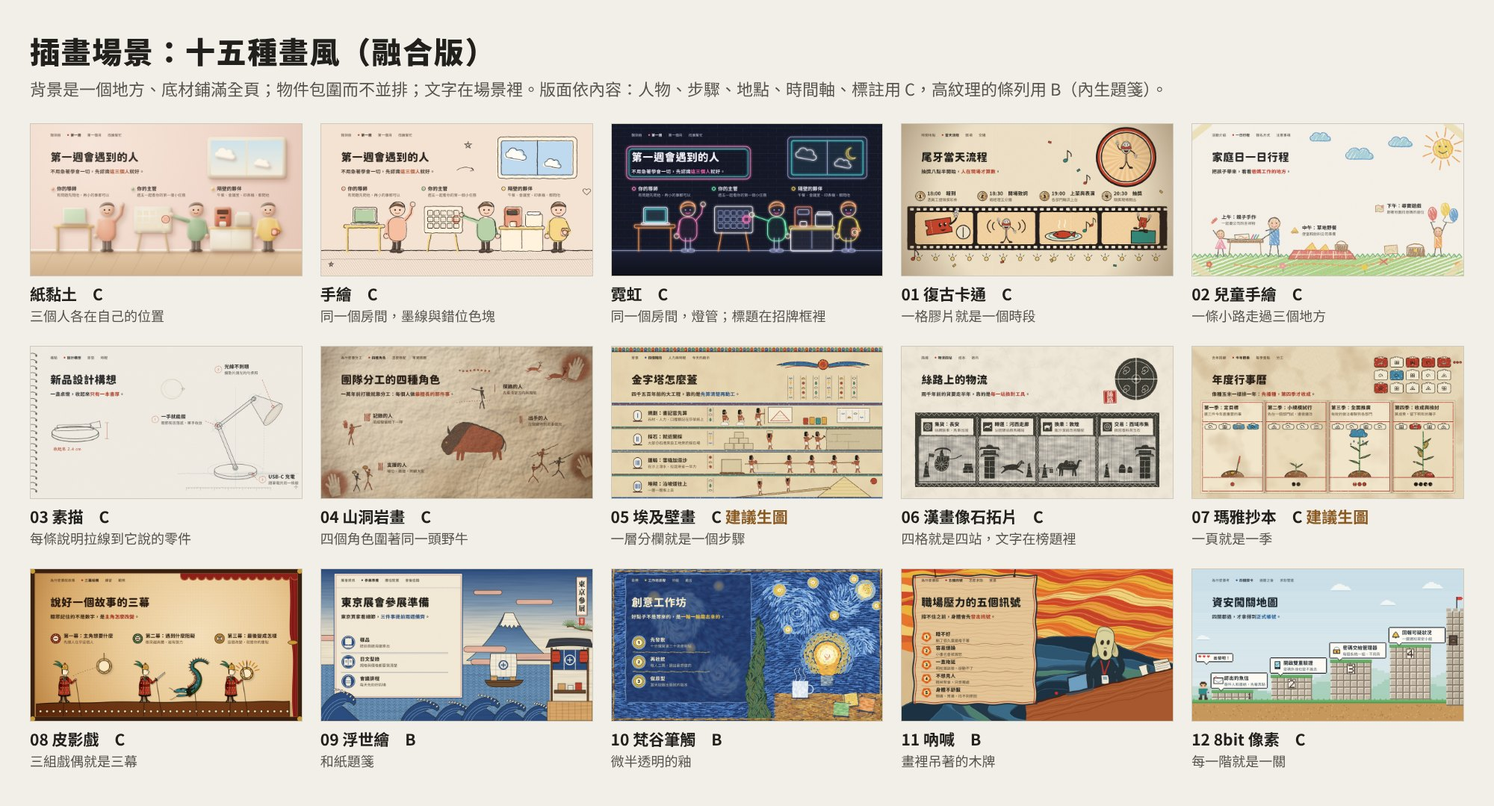
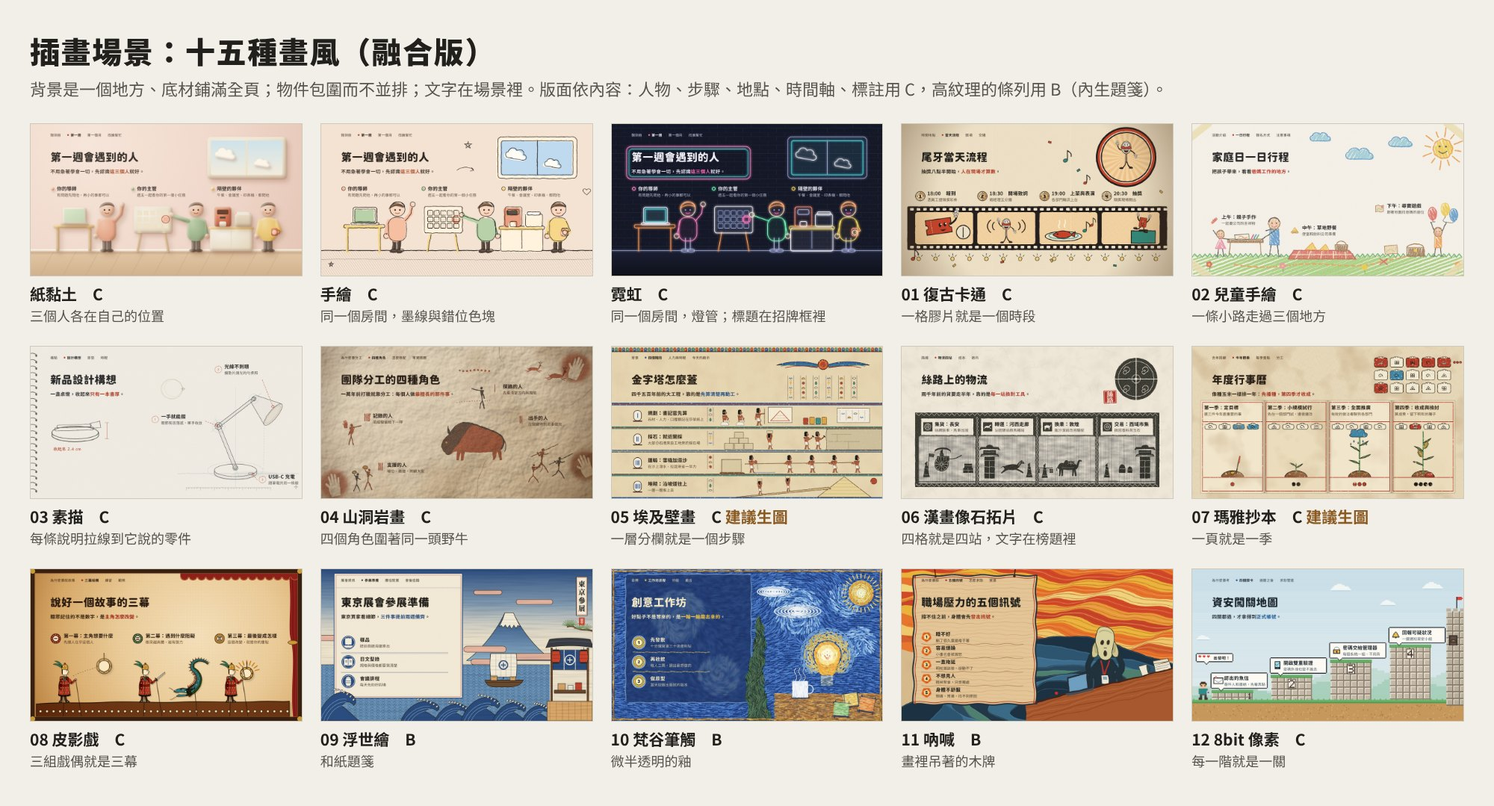
插畫場景十五種畫風的淺、深兩種底補齊：總覽 sheet5、規格範圍、同步紀錄
- sheet5.html／jpg：十五種畫風，每格上淺下深
- illustration.md「明暗」：十五種的實測用色，以及歸納出的深色、淺色範圍
- color-system.md：插畫場景改成已補齊
- sheet2、sheet3 跟著更新（收錄重畫的梵谷與拿掉月亮的霓虹）
- integration README、STATUS、ROADMAP、LOG 同步；首批三款的 2b 完成，下一步 2c

Claude-Session: https://claude.ai/code/session_01Cd6Gfpjt229CKA35KBVkkD

Changed region(s): [[0.465, 0.7034, 0.589, 0.9175]]

diff --git a/projects/presentation-skill/outputs/illustration-integration/sheet5.html b/projects/presentation-skill/outputs/illustration-integration/sheet5.html
@@ -1,0 +1,86 @@
+<!doctype html>
+<html lang="zh-Hant">
+<head>
+<meta charset="utf-8">
+<title>插畫場景：十五種畫風的淺、深兩種底</title>
+<link rel="stylesheet" href="https://fonts.googleapis.com/css2?family=Noto+Sans+TC:wght@400;700;900&display=block">
+<style>
+  *{box-sizing:border-box;margin:0;padding:0}
+  body{width:2000px;background:#F2EFE8;color:#22201C;font-family:"Noto Sans TC",sans-serif;padding:44px 40px 48px}
+  h1{font:900 40px/1.2 "Noto Sans TC";letter-spacing:.04em}
+  p.sub{margin-top:10px;font:400 22px/1.5 "Noto Sans TC";color:#57534D}
+  .grid{margin-top:30px;display:grid;grid-template-columns:repeat(5,1fr);gap:34px 24px}
+  figure h3{font:700 23px/1.3 "Noto Sans TC";margin-bottom:8px}
+  figure img{display:block;width:100%;aspect-ratio:16/9;border:1px solid #CFC9BC}
+  p.tag{margin:4px 0 8px;font:700 17px/1.2 "Noto Sans TC";color:#57534D}
+  p.tag i{font-style:normal;color:#8A5A22}
+  figcaption{font:400 18px/1.4 "Noto Sans TC";color:#57534D}
+</style>
+</head>
+<body>
+  <h1>插畫場景：十五種畫風的淺、深兩種底</h1>
+  <p class="sub">版面不動，只換明暗。變暗不等於夜晚：只換光線，或用材質本身的深色款；月亮星星跟著內容走。B 版面寫字的載體跟著變深。每格上淺下深。</p>
+  <div class="grid">
+    <figure><h3>紙黏土</h3>
+      <img src="img/C-scene.jpg" alt=""><p class="tag">淺</p>
+      <img src="img/C-scene-dark.jpg" alt=""><p class="tag">深　<i>新補</i></p>
+      <figcaption>深：拉上百葉窗、關掉大燈，只留檯燈與螢幕</figcaption></figure>
+    <figure><h3>手繪</h3>
+      <img src="img/hand-C.jpg" alt=""><p class="tag">淺</p>
+      <img src="img/hand-C-dark.jpg" alt=""><p class="tag">深　<i>新補</i></p>
+      <figcaption>深：深色紙上的白色墨線</figcaption></figure>
+    <figure><h3>霓虹</h3>
+      <img src="img/neon-C-light.jpg" alt=""><p class="tag">淺　<i>新補</i></p>
+      <img src="img/neon-C.jpg" alt=""><p class="tag">深</p>
+      <figcaption>淺：店裡燈全開的白漆磚牆，燈管照樣亮</figcaption></figure>
+    <figure><h3>01 復古卡通</h3>
+      <img src="img/retro-C.jpg" alt=""><p class="tag">淺</p>
+      <img src="img/retro-C-dark.jpg" alt=""><p class="tag">深　<i>新補</i></p>
+      <figcaption>深：放映廳暗下來；尾牙在晚上，畫了彎月</figcaption></figure>
+    <figure><h3>02 兒童手繪</h3>
+      <img src="img/crayon-C.jpg" alt=""><p class="tag">淺</p>
+      <img src="img/crayon-C-dark.jpg" alt=""><p class="tag">深　<i>新補</i></p>
+      <figcaption>深：蠟筆畫在黑色圖畫紙上</figcaption></figure>
+    <figure><h3>03 素描</h3>
+      <img src="img/sketch-C.jpg" alt=""><p class="tag">淺</p>
+      <img src="img/sketch-C-dark.jpg" alt=""><p class="tag">深　<i>新補</i></p>
+      <figcaption>深：深灰色紙，白鉛筆描線、炭筆排影</figcaption></figure>
+    <figure><h3>04 山洞岩畫</h3>
+      <img src="img/cave-C.jpg" alt=""><p class="tag">淺</p>
+      <img src="img/cave-C-dark.jpg" alt=""><p class="tag">深　<i>新補</i></p>
+      <figcaption>深：火把照亮的洞穴，白黏土取代炭黑</figcaption></figure>
+    <figure><h3>05 埃及壁畫</h3>
+      <img src="img/egypt-C.jpg" alt=""><p class="tag">淺</p>
+      <img src="img/egypt-C-dark.jpg" alt=""><p class="tag">深　<i>新補</i></p>
+      <figcaption>深：墓室天頂的深藍，不畫星紋</figcaption></figure>
+    <figure><h3>06 漢畫像石拓片</h3>
+      <img src="img/han-C.jpg" alt=""><p class="tag">淺</p>
+      <img src="img/han-C-dark.jpg" alt=""><p class="tag">深　<i>新補</i></p>
+      <figcaption>深：烏金拓，人物凹刻成灰白剪影</figcaption></figure>
+    <figure><h3>07 瑪雅抄本</h3>
+      <img src="img/maya-C.jpg" alt=""><p class="tag">淺</p>
+      <img src="img/maya-C-dark.jpg" alt=""><p class="tag">深　<i>新補</i></p>
+      <figcaption>深：沒上石灰的深色樹皮紙，石灰白勾線</figcaption></figure>
+    <figure><h3>08 皮影戲</h3>
+      <img src="img/shadow-C.jpg" alt=""><p class="tag">淺</p>
+      <img src="img/shadow-C-dark.jpg" alt=""><p class="tag">深　<i>新補</i></p>
+      <figcaption>深：一盞油燈，只照亮戲偶那一帶</figcaption></figure>
+    <figure><h3>09 浮世繪</h3>
+      <img src="img/ukiyoe-B.jpg" alt=""><p class="tag">淺</p>
+      <img src="img/ukiyoe-B-dark.jpg" alt=""><p class="tag">深　<i>新補</i></p>
+      <figcaption>深：藍摺絵，題箋墨地、字白抜き</figcaption></figure>
+    <figure><h3>10 梵谷筆觸</h3>
+      <img src="img/vangogh-B-light.jpg" alt=""><p class="tag">淺　<i>新補</i></p>
+      <img src="img/vangogh-B.jpg" alt=""><p class="tag">深　<i>重畫</i></p>
+      <figcaption>兩種都是白天：晴天麥田；深鈷藍天空（重畫）</figcaption></figure>
+    <figure><h3>11 吶喊</h3>
+      <img src="img/scream-B.jpg" alt=""><p class="tag">淺</p>
+      <img src="img/scream-B-dark.jpg" alt=""><p class="tag">深　<i>新補</i></p>
+      <figcaption>深：光線沉下去的峽灣，深色木牌</figcaption></figure>
+    <figure><h3>12 8bit 像素</h3>
+      <img src="img/pixel-C.jpg" alt=""><p class="tag">淺</p>
+      <img src="img/pixel-C-dark.jpg" alt=""><p class="tag">深　<i>新補</i></p>
+      <figcaption>深：地下關卡，老 RPG 的深藍視窗</figcaption></figure>
+  </div>
+</body>
+</html>

diff --git a/projects/presentation-skill/outputs/style-specs/illustration.md b/projects/presentation-skill/outputs/style-specs/illustration.md
@@ -60,7 +60,7 @@ _2026-11-19，首批三款之一。意象圖：`outputs/style-moodboard-v5/img/0
 
 ## 明暗（2026-11-19 使用者決定）
 
-每種畫風都要有淺、深兩種底。目前多數畫風只有淺底，霓虹與梵谷筆觸只有深底，要補上另一種。
+每種畫風都要有淺、深兩種底。**十五種都已補齊**（2026-11-19，總覽 `outputs/illustration-integration/sheet5.jpg`）：十三種補了深色，霓虹與梵谷補了淺色，梵谷的深色版依使用者建議重畫成白天。
 
 **怎麼變暗**（2026-11-19 使用者決定，原則第 22 條）：
 
@@ -80,9 +80,9 @@ _2026-11-19，首批三款之一。意象圖：`outputs/style-moodboard-v5/img/0
 | 霓虹 | 淺 | 換光線：店裡燈全開、白漆磚牆；燈管照樣亮著，亮處才看得到的支架與電極一起畫出來 |
 | 復古卡通 | 深 | 換光線：放映廳暗下來，深褐底加網點；樣張的尾牙本來就在晚上，可以畫月亮 |
 | 兒童手繪 | 深 | 材質深色款：蠟筆畫在黑色圖畫紙上 |
-| 素描 | 深 | 材質深色款：深灰色紙上的白鉛筆，標註改用珊瑚色鉛筆 |
-| 山洞岩畫 | 深 | 換光線：火把照亮的洞穴深處；炭黑在暗岩上看不見，改用石灰白 |
-| 埃及壁畫 | 深 | 材質深色款：墓室天頂的深藍底；天頂的五角星紋是裝飾紋樣，不是夜空 |
+| 素描 | 深 | 材質深色款：深灰色紙；色紙素描的畫法，白鉛筆描輪廓、炭筆排陰影，標註改用珊瑚色鉛筆 |
+| 山洞岩畫 | 深 | 換光線：火把照亮的洞穴深處；炭黑在暗岩上看不見，改用白色黏土（澳洲、非洲岩畫常見） |
+| 埃及壁畫 | 深 | 材質深色款：墓室天頂的深藍底；不畫五角星紋，免得讀成夜空 |
 | 漢畫像石拓片 | 深 | 材質深色款：烏金拓（墨最重、黑亮的拓法）；人物改凹刻，拓出來是灰白剪影 |
 | 瑪雅抄本 | 深 | 材質深色款：沒上石灰的深色樹皮紙，改用石灰白勾線 |
 | 皮影戲 | 深 | 換光線：只點一盞油燈的戲台，布幕只有戲偶那一帶亮，往上暗成深褐，字寫在暗處 |
@@ -91,20 +91,38 @@ _2026-11-19，首批三款之一。意象圖：`outputs/style-moodboard-v5/img/0
 | 吶喊 | 深 | 換光線：同一片峽灣，光線沉下去，色帶轉成深藍與暗紅；木牌改深色木板 |
 | 8bit 像素 | 深 | 換光線：地下關卡（老遊戲的暗色關卡），說明框改成老 RPG 的深藍底白字視窗 |
 
-補完後，把各畫風另一種明暗的用色範圍寫進下面的「用色規則」。
+**實測用色**（2026-11-19，OKLCH；四張示範的前後對照在 `sheet4.jpg`）。強調色只給 24 px 以上的關鍵字：
 
-**四張示範已完成**（2026-11-19，`outputs/illustration-integration/sheet4.jpg`），使用者確認方向。實測用色（OKLCH）：
+| 畫風 | 補 | 底色 | 文字 | 次要文字 | 強調色 | 強調色對底色 |
+|---|---|---|---|---|---|---|
+| 紙黏土 | 深 | 深可可牆 L 0.24–0.34，C 0.03，H 36–39；亮處在左上的檯燈旁 | L 0.95 | L 0.80 | 杏橘 L 0.78，C 0.11 | 6.9:1 |
+| 手繪 | 深 | 暖深色紙 L 0.26，C ≤ 0.01 | L 0.95 | L 0.79 | 杏橘 L 0.78，C 0.11 | 7.5:1 |
+| 霓虹 | 淺 | 白漆磚 L 0.95，磚縫 L 0.87，C ≤ 0.015 | 深藍墨 L 0.28 | L 0.46 | 深桃 L 0.50，C 0.19 | 5.5:1 |
+| 復古卡通 | 深 | 暗下來的放映廳 L 0.24，C 0.02；膠片畫格被照亮 | L 0.94 | L 0.80 | 朱橘 L 0.72，C 0.15 | 6.5:1 |
+| 兒童手繪 | 深 | 黑色圖畫紙 L 0.26 | L 0.96 | L 0.80 | 蠟筆紅 L 0.73，C 0.15 | 6.1:1 |
+| 素描 | 深 | 深灰色紙 L 0.31，C ≤ 0.01 | L 0.95 | L 0.80 | 珊瑚 L 0.74，C 0.13 | 5.5:1 |
+| 山洞岩畫 | 深 | 暗岩 L 0.29，C 0.02；火把光在中央 | L 0.94 | L 0.80 | 赭橘 L 0.74，C 0.13 | 5.9:1 |
+| 埃及壁畫 | 深 | 墓室深藍 L 0.29，C 0.06，H 265 | L 0.94 | L 0.82 | 金 L 0.82，C 0.13 | 8.1:1 |
+| 漢畫像石拓片 | 深 | 烏金墨 L 0.21，C ≤ 0.01 | 刻字白 L 0.94 | L 0.77 | 朱 L 0.66，C 0.16 | 5.3:1 |
+| 瑪雅抄本 | 深 | 深色樹皮紙 L 0.30，C 0.03 | L 0.94 | L 0.80 | 淡紅 L 0.73，C 0.14 | 5.4:1 |
+| 皮影戲 | 深 | 暗布幕 L 0.23；只有戲偶那一帶亮到 L 0.85 | L 0.94 | L 0.81 | 琥珀橘 L 0.77，C 0.13 | 7.8:1 |
+| 浮世繪 | 深 | 藍摺天空 L 0.21–0.40，H 262–266；墨地題箋 L 0.22 | 白抜き L 0.94 | 淡藍灰 L 0.78 | 淡朱 L 0.74，C 0.13 | 6.9:1 |
+| 梵谷筆觸 | 淺 | 淺色釉 L ≈ 0.92，底下是淺藍天空與麥田 | L 0.27 | L 0.44 | 朱橘 L 0.50，C 0.15 | 5.0:1 |
+| 梵谷筆觸 | 深（重畫） | 白天的深鈷藍天空 L ≈ 0.40，C 0.12；字寫在加深的釉上 | L 0.94 | L 0.83 | 鉻黃 L 0.84，C 0.15 | 5.9:1 |
+| 吶喊 | 深 | 暗紅與深藍色帶；深色木牌 L 0.27 | L 0.93 | L 0.80 | 淡朱 L 0.74，C 0.14 | 6.2:1 |
+| 8bit 像素 | 深 | 地下關卡的深藏青 L 0.21；說明框是深藍視窗 | L 0.97 | L 0.84 | 金 L 0.83，C 0.14 | 10.5:1 |
 
-| 畫風 | 底色 | 文字 | 次要文字 | 強調色 | 強調色對底色 |
-|---|---|---|---|---|---|
-| 紙黏土深色 | 深可可牆 L 0.24–0.34，C 0.03–0.04，H 36–39（亮處在左上的檯燈旁） | L 0.95 | L 0.80 | 杏橘 L 0.78，C 0.11 | 6.9:1 |
-| 霓虹淺色 | 白漆磚 L 0.95，磚縫 L 0.87，C ≤ 0.015 | 深藍墨 L 0.28 | L 0.46 | 深桃 L 0.50，C 0.19 | 5.6:1 |
-| 漢畫像石深色 | 烏金墨 L 0.21，C ≤ 0.01 | 刻字白 L 0.94 | L 0.77 | 朱 L 0.66，C 0.16 | 5.3:1 |
-| 浮世繪深色 | 藍摺天空 L 0.21–0.40，H 262–266；墨地題箋 L 0.22 | 白抜き L 0.94 | 淡藍灰 L 0.78 | 淡朱 L 0.74，C 0.13 | 7.1:1 |
+**從十五種歸納的範圍**：
 
-- 紙黏土深色版的物件：亮面取淺色版的 L × 0.86 並加暖，暗面取 L × 0.68 並轉冷，色相不變。
-- 霓虹淺色版的燈管：L 0.64–0.76，C 0.12–0.22；亮芯是燈管色混白 72%。燈管離牆，往右下投細影。
-- 依「時間記號跟著內容走」，霓虹深色版窗裡的月亮已拿掉。
+- **深色版的底**：L 0.21–0.31，C ≤ 0.06。梵谷的天空到 0.40，字寫在加深的釉上。色相跟著主題，或跟著畫風材質本身的顏色，例如墓室藍、樹皮褐。
+- **深色版的字**：文字 L 0.93–0.97；次要文字 L 0.77–0.84。強調色 L 0.66–0.84、C 0.11–0.16，對底色 ≥ 5:1。
+- **淺色版的字**（霓虹、梵谷）：底 L 0.92–0.95；文字 L 0.27–0.28；次要文字 L 0.44–0.46；強調色 L ≈ 0.50。
+- **原本的黑線**：在暗底上看不見的黑，換成這種材質本來就會用的淺色。例如炭黑換白黏土、黑蠟筆換白蠟筆、墨線換白色墨水、黑色輪廓換石灰白、石墨換白鉛筆。
+- **物件的光影**：紙黏土深色版的亮面取淺色版的 L × 0.86 並加暖，暗面取 L × 0.68 並轉冷，色相不變。
+- **霓虹淺色版的燈管**：L 0.64–0.76，C 0.12–0.22；亮芯是燈管色混白 72%。燈管離牆，往右下投細影。
+- **時間記號**：
+  - 霓虹深色版窗裡的月亮、梵谷深色版的星星與月亮都已拿掉。
+  - 復古卡通的尾牙在晚上，所以畫了彎月；梵谷與兒童手繪的內容在白天，所以畫了太陽。
 
 ## 四層
 
@@ -164,7 +182,7 @@ _2026-11-19，首批三款之一。意象圖：`outputs/style-moodboard-v5/img/0
 | 瑪雅抄本 | 樹皮紙 L 0.89 | 紅 L 0.49 | 4.8:1 | 固定：紅、黑、瑪雅藍 |
 | 皮影戲 | 背光布幕 L 0.84 | 深紅 L 0.47 | 4.5:1 | 戲偶的染色可換；布幕保持暖光 |
 | 浮世繪 | 和紙 L 0.92 | 普魯士藍 L 0.42 | 6.8:1 | 天空漸層可換藍或朱；和紙固定 |
-| 梵谷筆觸 | 夜空 L 0.36（深底淺字） | 鉻黃 L 0.84 | 6.7:1 | 固定：夜空藍、鉻黃、柏樹綠 |
+| 梵谷筆觸 | 白天的深鈷藍天空 L 0.40（深底淺字；2026-11-19 從夜空改成白天） | 鉻黃 L 0.84 | 5.9:1 | 固定：鈷藍、鉻黃、柏樹綠 |
 | 吶喊 | 硬紙板 L 0.81 | 朱紅 L 0.49 | 3.7:1 | 天空色帶固定；水面色可換 |
 | 8bit 像素 | 天空 L 0.92 | 深藍 L 0.47 | 5.5:1 | 整組色盤可換：四階同色相加兩個點綴色 |
 

diff --git a/projects/presentation-skill/STATUS.md b/projects/presentation-skill/STATUS.md
@@ -1,15 +1,13 @@
 # 狀態：presentation-skill（deck-architect）
 
-> **最新接手點（2026-11-19，新對話接手後）**：
+> **最新接手點（2026-11-19）**：
 >
-> 階段 2b 風格定調的最後一項：插畫場景每種畫風補另一種明暗。
+> 階段 2b 首批三款的風格定調完成：插畫場景十五種畫風都有淺、深兩種底，總覽在 `outputs/illustration-integration/sheet5.jpg`。
 >
-> - 使用者用表單定了三件事：變暗不等於夜晚；B 版面寫字的載體跟著變深；先做四張示範。
-> - 四張示範**已完成**：紙黏土（換光線）、霓虹（補淺色）、漢畫像石（烏金拓）、浮世繪（藍摺絵＋墨地題箋）。對照在 `outputs/illustration-integration/sheet4.jpg`，二十一頁全數通過檢查。
+> - 做法依使用者的三個決定：變暗不等於夜晚，B 版面寫字的載體跟著變深，先做四張示範再推到其餘十一張。
+> - 梵谷依使用者建議兩種明暗都畫白天。
 >
-> - 使用者確認方向，**其餘十一張製作中**。梵谷依使用者建議改成白天：深色版是深鈷藍的白天天空，淺色版是晴天。
->
-> **下一步**：其餘十一張 → 用色範圍寫進規格 → 進入 2c，替首批三款設計排法。
+> **下一步**：使用者看十五種的總覽 → 進入 2c，替首批三款設計排法。
 >
 > 主軸文件是 `ROADMAP.md`，執行紀錄在 `LOG.md`，專案規則在根目錄 `CLAUDE.md`。
 
@@ -38,8 +36,8 @@ _最後更新：2026-11-19_
 | 步驟 | 狀態 |
 |---|---|
 | 2a 研究 | ✅ 完成，`inputs/style-research.md` |
-| 2b 風格定調 | 🔄 進行中，見下表 |
-| 2c 逐風格設計排法 | 尚未開始 |
+| 2b 風格定調 | ✅ 首批三款完成；其他九款的規格留到之後 |
+| 2c 逐風格設計排法 | ⏭ 下一步 |
 | 2d 流程 | 尚未開始。storyboard 確認結構，再過一次視覺關卡；關卡裡選明暗與三組配色 |
 
 **2b 的進度**：
@@ -53,7 +51,7 @@ _最後更新：2026-11-19_
 | 顧問報告規格（淺色紙、深色石板） | ✅ 完成 | `outputs/style-specs/counsel.md`；對照同上 |
 | 插畫場景規格（12 條融合規則、版面 A／B／C、十五種畫風、實測用色） | ✅ 完成 | `outputs/style-specs/illustration.md` |
 | 插畫場景十五種畫風融合版 | ✅ 完成，使用者說「好很多」 | `outputs/illustration-integration/sheet3.jpg` |
-| **插畫場景每種畫風補另一種明暗** | 🔄 四張示範完成並經使用者確認；其餘十一張製作中 | `illustration.md` 的「明暗」；對照 `outputs/illustration-integration/sheet4.jpg` |
+| 插畫場景每種畫風補另一種明暗 | ✅ 十五種補齊，三十二頁全數通過檢查 | `illustration.md` 的「明暗」；總覽 `outputs/illustration-integration/sheet5.jpg`，四張示範 `sheet4.jpg` |
 | 其他九款風格的規格（各要淺、深兩套用色） | 之後 | — |
 
 ## 已經定案的事
@@ -109,7 +107,7 @@ _最後更新：2026-11-19_
 |---|---|
 | `outputs/style-specs/` | 首批三款規格與用色系統；`README.md` 有「什麼固定、什麼依內容調整」對照表 |
 | `outputs/color-modes/` | Apple 與顧問的淺、深兩種底各三組配色，共十二張，見 `sheet.jpg`。`tpl/` 是只用顏色角色的範本；`make.py` 產生變體，並檢查漸層字的對比 |
-| `outputs/illustration-integration/` | **插畫場景現行版本**。十五張融合版樣張，見 `sheet3.jpg`；`sheet.jpg` 是三種版面研究，`sheet2.jpg` 是四張前後對照，**`sheet4.jpg` 是補明暗的四張示範**（`C-scene-dark`、`neon-C-light`、`han-C-dark`、`ukiyoe-B-dark`）。另有 `src/clay.js`（紙黏土材質，`<html data-light="dark">` 切深色）與 `src/office.js`（紙黏土、手繪、霓虹共用的辦公室場景幾何） |
+| `outputs/illustration-integration/` | **插畫場景現行版本**。十五張融合版樣張，見 `sheet3.jpg`；`sheet.jpg` 是三種版面研究，`sheet2.jpg` 是四張前後對照，`sheet4.jpg` 是補明暗的四張示範，**`sheet5.jpg` 是十五種畫風的淺、深兩種底**（新檔名是 `<畫風>-<版面>-dark`／`-light`；梵谷的深色版是重畫的 `vangogh-B`）。另有 `src/clay.js`（紙黏土材質，`<html data-light="dark">` 切深色）與 `src/office.js`（紙黏土、手繪、霓虹共用的辦公室場景幾何） |
 | `outputs/illustration-renderings/` | 插畫場景第一版（十二張），以及**全畫風共用的文字層 `src/base.css`**；`IMAGE_TODO.md` 是埃及、瑪雅的生圖需求（選擇性，已依融合版構圖改寫） |
 | `outputs/style-moodboard-v5/` | 十二款風格的意象圖與審閱頁 |
 | `outputs/tools/oklch.py` | 量 OKLCH 與 WCAG 對比的小工具，規格裡的色彩範圍都用它核對 |
@@ -119,14 +117,11 @@ _最後更新：2026-11-19_
 
 ## 下一步（依序）
 
-1. **插畫場景每種畫風補另一種明暗**。版面不動、只換明暗，仍要通過 `render.cjs` 的檢查。十五種畫風各自的補法已寫在 `illustration.md` 的「明暗」。
-   - ✅ 四張示範：紙黏土、霓虹、漢畫像石、浮世繪，見 `sheet4.jpg`。
-   - 方向確認後再做其餘十一張：手繪、復古卡通、兒童手繪、素描、山洞岩畫、埃及、瑪雅、皮影戲、梵谷（補淺）、吶喊、像素。檔名沿用 `<畫風>-<版面>-dark.html`／`-light.html`。
-   - 補完後把各畫風另一種明暗的用色範圍寫進 `illustration.md` 的「用色規則」。
-2. **選擇性：埃及、瑪雅生圖**，由使用者生。圖交回後放 `outputs/illustration-renderings/img-src/`，再換成場景層並重新驗證。
+1. **使用者看十五種畫風的淺、深兩種底**（`outputs/illustration-integration/sheet5.jpg`），有要調的先調。
+2. **選擇性：埃及、瑪雅生圖**，由使用者生。圖交回後放 `outputs/illustration-renderings/img-src/`，再換成場景層並重新驗證。深色版也要跟著有一張。
 3. **2c 替首批三款設計排法**：每款 × 每種內容結構（14 種，加上長條、圓環比例、折線趨勢、人形圖示、地圖等圖表類）× 3–5 種排法。
    - Apple 與顧問各自的版面語法寫在規格的「版面語言」與「內容結構的適配」。
-   - 插畫場景依 A／B／C。
+   - 插畫場景依 A／B／C；每種排法都要能在淺、深兩種底下成立。
 4. **2d 流程**：storyboard 確認結構，再過一次視覺關卡。關卡裡先選明暗，再看三組配色。
 5. 確認兩個架構問題：成本那一行要多顯眼、附件頁要不要留。
 6. **真實簡報實測**：讓同一個 agent 接著做「內部工具推廣與部署說明」的 Step 4–6，使用者拿它和當時的 Codex 版本比較。真實內容只放暫存區，不進 repo。
@@ -173,6 +168,10 @@ _最後更新：2026-11-19_
   - 用 Python 組 HTML 時，記得補 `</script>`。
   - 佔位字串不要出現兩次，否則程式會被代換兩份。
   - 畫面邊緣有暗角時，那裡的文字容易對比不足。
+  - 深色底上，用 `mix-blend-mode:multiply` 疊進底材的顏料會整片消失，要改成蓋在上面。
+  - SVG 弧線的半徑小於弦長一半時，瀏覽器會自動放大半徑，月牙之類的形狀會變成零厚度。
+  - 用程式改 `<title>` 時整行換掉，免得留下舊的副標。
+  - 重跑 `render.cjs` 後，來源沒改、只差反鋸齒雜訊的圖要還原，不進 commit。
 - **工作節奏**：每畫完一張就 commit、push，因為 worker 可能重啟。
 - **檢查圖面**：先縮成 960×540 再看，省篇幅；細節再裁局部看原尺寸。
 

diff --git a/projects/presentation-skill/outputs/illustration-integration/README.md b/projects/presentation-skill/outputs/illustration-integration/README.md
@@ -138,3 +138,31 @@ _2026-11-19。使用者回饋：「插畫場景最大的問題可能是排版吧
 - 紙黏土深色版的光暈用 `cx="0" cy="0"` 的放射漸層，中心跑到形狀的左上角，牆上出現一道硬邊。改成 `.5`。
 
 全部二十一頁重跑 `render.cjs`，全數通過對比、溢出與腳本檢查。
+
+## 十五種畫風的淺、深兩種底（2026-11-19）
+
+`sheet5.jpg` 是總覽，每格上淺下深。使用者確認四張示範的方向後，其餘十一張照同樣的做法補齊。
+
+| 畫風 | 新檔案 | 補 | 做法 | 最低對比 |
+|---|---|---|---|---|
+| 手繪 | `hand-C-dark` | 深 | 材質深色款：暖深色紙上的白色墨線，色塊照樣錯位；窗外仍是白天的藍天 | 7.16 |
+| 復古卡通 | `retro-C-dark` | 深 | 換光線：放映廳暗下來，只有膠片的畫格、齒孔、片頭圓框與腳燈是亮的；尾牙在晚上，畫一個笑臉彎月 | 5.65 |
+| 兒童手繪 | `crayon-C-dark` | 深 | 材質深色款：蠟筆畫在黑色圖畫紙上，黑蠟筆換成白蠟筆；太陽保留，家庭日在白天 | 5.63 |
+| 素描 | `sketch-C-dark` | 深 | 材質深色款：深灰色紙，白鉛筆描輪廓、炭筆排陰影，標註改珊瑚色鉛筆 | 4.99 |
+| 山洞岩畫 | `cave-C-dark` | 深 | 換光線：火把照亮的洞穴深處；炭黑換成白色黏土，野牛的陰影改用深一階的紅 | 4.77 |
+| 埃及壁畫 | `egypt-C-dark` | 深 | 材質深色款：墓室天頂的深藍，不畫五角星紋；木杖與繩索改淺木色，欄線改金色 | 5.90 |
+| 瑪雅抄本 | `maya-C-dark` | 深 | 材質深色款：沒上石灰的深色樹皮紙，黑色輪廓換成石灰白，奶油色填色降成棕褐 | 4.89 |
+| 皮影戲 | `shadow-C-dark` | 深 | 換光線：一盞油燈只照亮戲偶那一帶，標題與三幕說明寫在上方暗處 | 6.70 |
+| 梵谷筆觸 | `vangogh-B-light`、`vangogh-B`（重畫） | 淺、深 | 依使用者建議兩種都是白天：淺色是晴天的淺藍天空與麥田；深色是白天的深鈷藍天空，拿掉星星與月亮，加一顆漩渦太陽與兩朵拉長的白雲 | 5.03、4.14 |
+| 吶喊 | `scream-B-dark` | 深 | 換光線：色帶沉成暗紅與深藍，木牌改深色木板 | 5.97 |
+| 8bit 像素 | `pixel-C-dark` | 深 | 換光線：地下關卡的藍磚與深藏青；說明框改成老 RPG 的深藍視窗 | 9.33 |
+
+**避開的坑**：
+
+- 梵谷深色版一開始在釉底下放了一朵白雲，把一行次要文字背後墊亮，對比只剩 2.91。已拿掉。
+- 梵谷的白雲畫成圓的，在深藍天空裡像月亮，改成拉長的橢圓。
+- 復古卡通的彎月：內弧半徑小於弦長的一半，瀏覽器自動放大，月牙厚度變成零。內弧改用更大的半徑。
+- 兒童手繪、素描、山洞岩畫的顏料原本用 `multiply` 疊進紙或岩石，深色底上會整片消失，改成蓋在上面。
+- 用 Python 加前綴時，`<title>` 會帶到原本的副標，記得整行換掉。
+
+三十二頁全數通過對比、溢出與腳本檢查。重跑時只差反鋸齒雜訊的圖不進 commit；`sheet2.jpg`、`sheet3.jpg` 因為收錄了重畫的梵谷與拿掉月亮的霓虹，跟著更新。

diff --git a/projects/presentation-skill/LOG.md b/projects/presentation-skill/LOG.md
@@ -1100,3 +1100,44 @@
   - 淺色版：晴天的淺藍漩渦天空與麥田，釉改淺色。
 - **寫進文件**：`illustration.md` 補法表的梵谷一列、`STATUS.md` 的已定案表。
 - **下一步**：做其餘十一張，每做完一張就 commit。
+
+## 2026-11-19｜插畫場景十五種畫風的淺、深兩種底補齊
+
+- **做了什麼**（`outputs/illustration-integration/`，總覽 `sheet5.jpg`，每格上淺下深）。版面不動，只換明暗，其餘十一張照四張示範的做法補齊：
+  - **換光線**：
+    - 復古卡通：放映廳暗下來，只有膠片與腳燈是亮的。
+    - 山洞岩畫：火把照亮的洞穴。
+    - 皮影戲：一盞油燈只照亮戲偶那一帶。
+    - 吶喊：色帶沉成暗紅與深藍。
+    - 8bit 像素：地下關卡。
+  - **材質本身的深色款**：
+    - 手繪：暖深色紙上的白色墨線。
+    - 兒童手繪：蠟筆畫在黑色圖畫紙上。
+    - 素描：深灰色紙，白鉛筆描線、炭筆排影。
+    - 埃及：墓室天頂的深藍。
+    - 瑪雅：沒上石灰的深色樹皮紙。
+  - **梵谷**：依使用者建議兩種都是白天。
+    - 淺色是晴天的淺藍天空與麥田。
+    - 深色重畫成白天的深鈷藍天空，拿掉星星與月亮，加一顆漩渦太陽與兩朵拉長的白雲。
+- **共通的處理**：在暗底上看不見的黑線，換成這種材質本來就會用的淺色。例如白黏土、白蠟筆、白鉛筆、石灰白、白色墨水。
+- **時間記號**：
+  - 復古卡通的尾牙在晚上，畫了彎月。
+  - 兒童手繪與梵谷的內容在白天，畫了太陽。
+  - 原本提的月光柱與夜晚關卡都改掉了。
+  - 埃及不畫五角星紋。
+- **修掉的錯**：
+  - 梵谷釉底下的白雲把次要文字背後墊亮，對比只有 2.91。
+  - 梵谷的圓形白雲像月亮，改成拉長的橢圓。
+  - 復古卡通的彎月內弧半徑太小，被瀏覽器放大成零厚度。
+  - 幾張頁面的 `<title>` 留下了舊副標。
+- **驗證**：三十二頁全數通過對比、溢出與腳本檢查。新圖最低對比：
+  - 手繪 7.16、復古卡通 5.65、兒童手繪 5.63、素描 4.99。
+  - 山洞岩畫 4.77、埃及 5.90、瑪雅 4.89、皮影戲 6.70。
+  - 梵谷淺色 5.03、梵谷深色 4.14。
+  - 吶喊 5.97、像素 9.33。
+- **寫進文件**：
+  - `outputs/style-specs/illustration.md` 的「明暗」：十五種的實測用色與歸納出的範圍。
+  - `color-system.md` 的插畫場景一列。
+  - integration `README.md`、`STATUS.md`、`ROADMAP.md`。
+- **階段**：首批三款的 2b 風格定調完成。
+- **下一步**：使用者看 `sheet5.jpg`，之後進入 2c，替首批三款設計排法。

diff --git a/projects/presentation-skill/ROADMAP.md b/projects/presentation-skill/ROADMAP.md
@@ -56,7 +56,7 @@
 |---|---|---|
 | 0 | 研究、規劃、方法論梳理 | ✅ |
 | 1 | v0 骨架、v1 四次真實簡報迭代（支柱 ①） | ✅ |
-| **2** | **設計美感（支柱 ②）：2026-11-15 起從頭來過，見下方「階段 2 重新規劃」** | **🔄 2b 風格定調：首批三款規格、明暗兩版、插畫融合版完成（使用者：好很多）；下一步替插畫各畫風補另一種明暗，再進 2c** |
+| **2** | **設計美感（支柱 ②）：2026-11-15 起從頭來過，見下方「階段 2 重新規劃」** | **🔄 2b 首批三款完成：規格、明暗兩版、插畫融合版、插畫十五種畫風的淺深兩種底；下一步 2c** |
 | 3 | 畫面活起來：插畫流程、動態背景、元素跨頁延續 | |
 | 4 | 交付與修改：可編輯 PPTX、講者模式、在成品上修改 | |
 | 5 | 品質與記憶：獨立評審、外觀帳本、品味記憶 | |
@@ -94,7 +94,8 @@
   - **11-19 插畫融合版**：十五種畫風依版面對照表重排（`outputs/illustration-integration/sheet3.jpg`），並套用使用者的三個建議：同源底材、結構對應條列、內生題箋。
   - **11-19 使用者回饋**：融合版「好很多」。交接給新對話，接手點見 `STATUS.md`。
   - **11-19 補明暗的做法定案**（新對話，互動表單）：變暗不等於夜晚，只換光線或用材質本身的深色款；B 版面寫字的載體跟著變深；先做四張示範再推到其餘十一張。
-  - **11-19 補明暗四張示範**：紙黏土深色、霓虹淺色、漢畫像石烏金拓、浮世繪藍摺絵（`outputs/illustration-integration/sheet4.jpg`）。待使用者確認方向。
+  - **11-19 補明暗四張示範**：紙黏土深色、霓虹淺色、漢畫像石烏金拓、浮世繪藍摺絵（`outputs/illustration-integration/sheet4.jpg`）。使用者確認方向。
+  - **11-19 十五種畫風的淺、深兩種底補齊**（`sheet5.jpg`）；梵谷依使用者建議兩種都畫白天。首批三款的 2b 完成，下一步 2c。
 - [ ] **2c 逐風格設計排法**：每個風格 × 每種內容結構（目前 14 種，**11-17 起加入圖表類結構：長條、圓環比例、折線趨勢、人形圖示、地圖**）× 3–5 種排法。**四層在實作上可分離替換，但要一起設計：背景層、圖像層、元素層、文字層**（2026-11-17 使用者決定把圖像層提前，原本規劃在階段 3）
 - [ ] **2d 流程**：storyboard 確認結構 → 一次視覺關卡（風格與排版一起呈現）→ 製作
   - **11-19 使用者決定**：視覺關卡要依簡報主題推薦三組配色（都符合所選風格的用色規則），使用者選一組；不放公司品牌色。

diff --git a/projects/presentation-skill/outputs/style-specs/color-system.md b/projects/presentation-skill/outputs/style-specs/color-system.md
@@ -60,7 +60,7 @@ _2026-11-19。依使用者決定（`inputs/presentation-principles.md` 第 17–
 |---|---|---|---|
 | Apple 發表 | 深色舞台、淺色舞台 | 主漸層（關鍵字、勾選）、邊緣光、地面光 | 舞台色、主文字、說明灰；裝置維持深色玻璃 |
 | 顧問報告 | 淺色紙、深色石板 | 一個焦點色 | 底色、主文字、說明灰、兩階中性灰、警示色 |
-| 插畫場景 | 每種畫風都要淺、深兩種底（目前多數只有淺底，霓虹與梵谷筆觸只有深底；待補） | 底色與物件主色的色相、輔助色、強調色 | 光線方向、文字墨色、物件的明度與彩度範圍 |
+| 插畫場景 | 十五種畫風都有淺、深兩種底（2026-11-19 補齊，範圍見 `illustration.md` 的「明暗」） | 底色與物件主色的色相、輔助色、強調色 | 光線方向、文字墨色、物件的明度與彩度範圍 |
 
 兩種明暗、各三組配色的示範見 `outputs/color-modes/sheet.jpg`。
 
